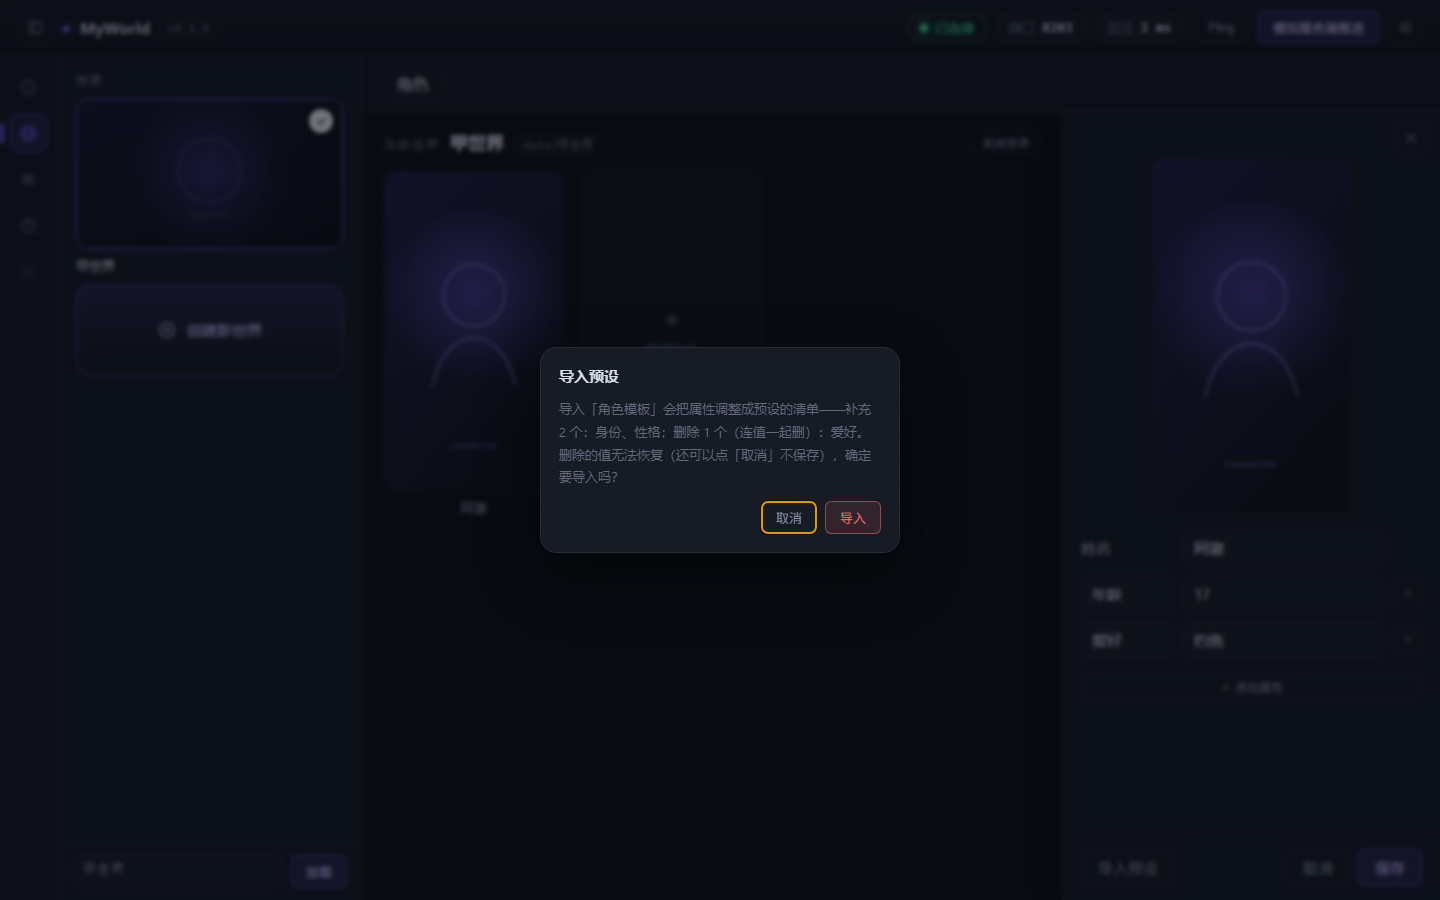
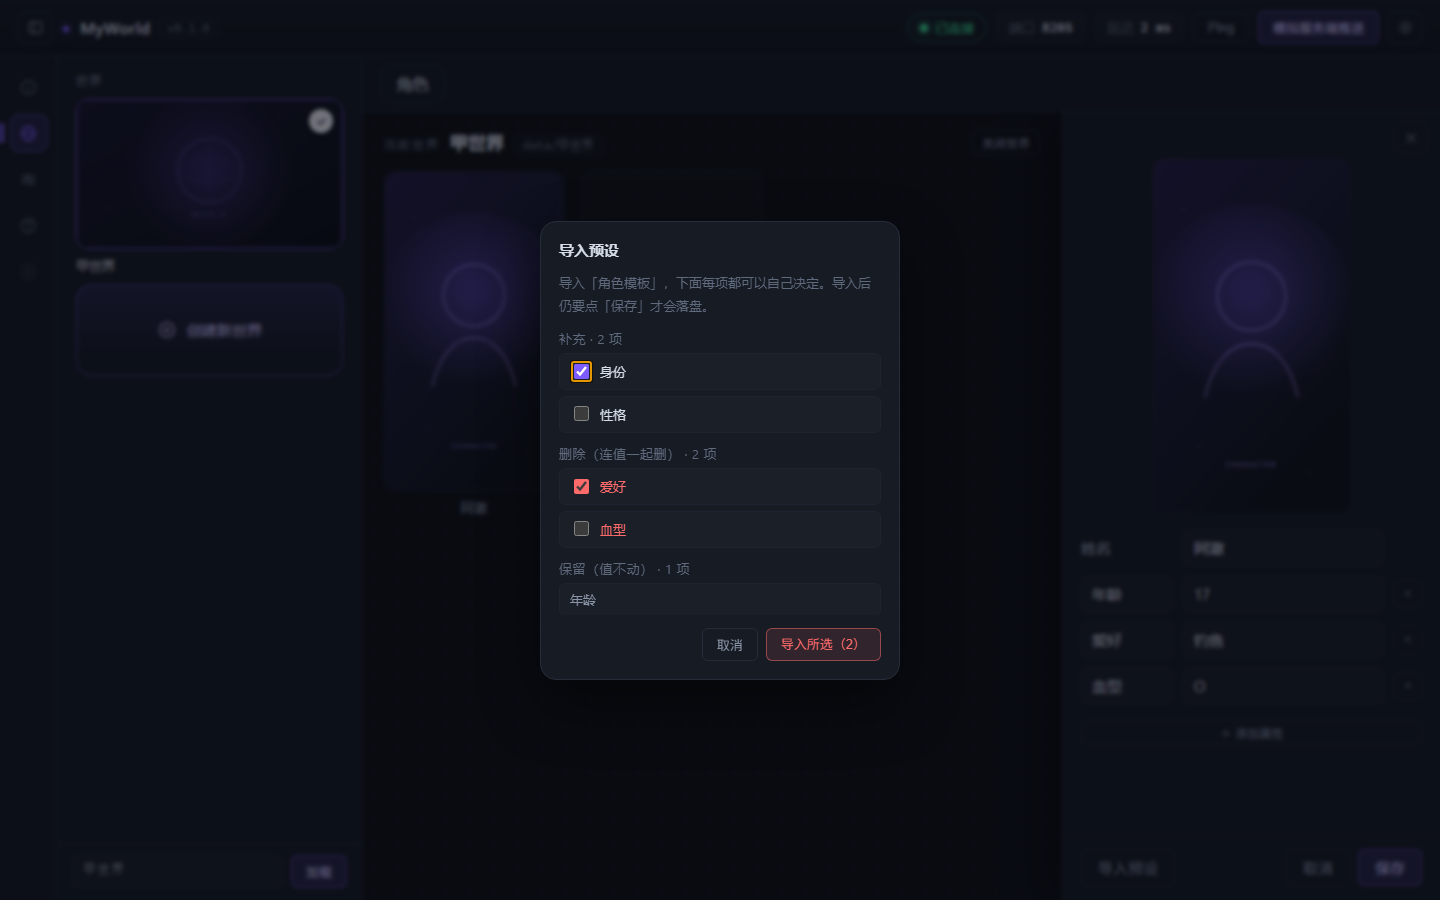
feat: 导入预设改为逐项勾选的清单
- 弹窗分三组：补充（预设有、角色没有）/ 删除（连值一起删）/ 保留（值不动）
- 补充和删除的每一项都是复选框，默认全勾，可以单独取消；保留项只做展示
- 按钮实时显示「导入所选（N）」，一项都不勾时禁用
- 导入只执行勾选的部分；仍要点「保存」才落盘
- 实测：取消勾选 性格/血型 后只补 身份、只删 爱好，血型=O 保留
- docs: 导入清单截图更新

Changed region(s): [[0.375, 0.3733, 0.625, 0.7467], [0.375, 0.2489, 0.5938, 0.3422], [0.75, 0.7467, 0.7812, 0.7778]]

diff --git a/web/js/app.js b/web/js/app.js
@@ -80,6 +80,7 @@
     btnPresetPickerCancel: $("btnPresetPickerCancel"),
     presetImportDialog: $("presetImportDialog"),
     presetImportText: $("presetImportText"),
+    presetImportList: $("presetImportList"),
     btnImportCancel: $("btnImportCancel"),
     btnImportConfirm: $("btnImportConfirm"),
     detailError: $("detailError"),
@@ -546,7 +547,7 @@
     currentDetailName = null;
   }
 
-  /* 面板「导入预设」：按预设的属性名清单调整角色——缺的补上、多余的连值一起删掉 */
+  /* 面板「导入预设」：列出要补/要删的每一项，用户逐项勾选 */
   let pendingImport = null;
 
   function planPresetImport(item) {
@@ -564,40 +565,109 @@
       .filter((entry) => entry.label);
 
     const keySet = new Set(keys);
-    const toAdd = keys.filter((key) => !entries.some((entry) => entry.label === key));
-    const toRemove = entries.filter((entry) => !keySet.has(entry.label));
+    const adds = keys
+      .filter((key) => !entries.some((entry) => entry.label === key))
+      .map((key) => ({ label: key, checked: true }));
+    const removes = entries
+      .filter((entry) => !keySet.has(entry.label))
+      .map((entry) => ({ label: entry.label, row: entry.row, checked: true }));
+    const keeps = entries.filter((entry) => keySet.has(entry.label)).map((entry) => entry.label);
 
-    if (!toAdd.length && !toRemove.length) {
+    if (!adds.length && !removes.length) {
       toast(`「${item.name}」和当前属性已经一致`);
       return;
     }
 
-    pendingImport = { item, toAdd, toRemove };
-    const parts = [];
-    if (toAdd.length) {
-      parts.push(`补充 ${toAdd.length} 个：${toAdd.join("、")}`);
-    }
-    if (toRemove.length) {
-      parts.push(`删除 ${toRemove.length} 个（连值一起删）：${toRemove.map((entry) => entry.label).join("、")}`);
-    }
+    pendingImport = { item, adds, removes, keeps };
     if (el.presetImportText) {
       el.presetImportText.textContent =
-        `导入「${item.name}」会把属性调整成预设的清单——${parts.join("；")}。` +
-        "删除的值无法恢复（还可以点「取消」不保存），确定要导入吗？";
+        `导入「${item.name}」，下面每项都可以自己决定。导入后仍要点「保存」才会落盘。`;
     }
+    renderImportPlan();
     el.presetImportDialog?.showModal();
+  }
+
+  function makeImportGroup(title, items, { danger = false, plain = false } = {}) {
+    const group = document.createElement("div");
+    group.className = "import-group";
+
+    const heading = document.createElement("span");
+    heading.className = "import-group-title";
+    heading.textContent = `${title} · ${items.length} 项`;
+    group.append(heading);
+
+    for (const item of items) {
+      const row = document.createElement(plain ? "span" : "label");
+      row.className = `import-item${danger ? " is-danger" : ""}${plain ? " is-keep" : ""}`;
+
+      if (!plain) {
+        const box = document.createElement("input");
+        box.type = "checkbox";
+        box.checked = item.checked;
+        box.addEventListener("change", () => {
+          item.checked = box.checked;
+          updateImportButton();
+        });
+        row.append(box);
+      }
+
+      const text = document.createElement("span");
+      text.textContent = item.label;
+      row.append(text);
+      group.append(row);
+    }
+
+    return group;
+  }
+
+  function renderImportPlan() {
+    if (!el.presetImportList || !pendingImport) return;
+    const { adds, removes, keeps } = pendingImport;
+    el.presetImportList.replaceChildren();
+
+    if (adds.length) el.presetImportList.append(makeImportGroup("补充", adds));
+    if (removes.length) {
+      el.presetImportList.append(makeImportGroup("删除（连值一起删）", removes, { danger: true }));
+    }
+    if (keeps.length) {
+      el.presetImportList.append(
+        makeImportGroup(
+          "保留（值不动）",
+          keeps.map((label) => ({ label })),
+          { plain: true },
+        ),
+      );
+    }
+    updateImportButton();
+  }
+
+  function updateImportButton() {
+    if (!el.btnImportConfirm) return;
+    if (!pendingImport) {
+      el.btnImportConfirm.textContent = "导入所选";
+      el.btnImportConfirm.disabled = false;
+      return;
+    }
+    const count =
+      pendingImport.adds.filter((entry) => entry.checked).length +
+      pendingImport.removes.filter((entry) => entry.checked).length;
+    el.btnImportConfirm.textContent = count ? `导入所选（${count}）` : "导入所选";
+    el.btnImportConfirm.disabled = count === 0;
   }
 
   function confirmPresetImport() {
     if (!pendingImport) return;
-    const { item, toAdd, toRemove } = pendingImport;
+    const { item, adds, removes } = pendingImport;
 
-    for (const entry of toRemove) entry.row.remove();
-    for (const key of toAdd) el.attrList.append(makeAttrRow({ label: key, value: "" }));
+    const pickedAdds = adds.filter((entry) => entry.checked);
+    const pickedRemoves = removes.filter((entry) => entry.checked);
 
-    if (el.detailError) el.detailError.hidden = true;
+    for (const entry of pickedRemoves) entry.row.remove();
+    for (const entry of pickedAdds) el.attrList.append(makeAttrRow({ label: entry.label, value: "" }));
+
     pendingImport = null;
-    toast(`已导入「${item.name}」：补充 ${toAdd.length} 个、删除 ${toRemove.length} 个`);
+    if (el.detailError) el.detailError.hidden = true;
+    toast(`已导入「${item.name}」：补充 ${pickedAdds.length} 个、删除 ${pickedRemoves.length} 个`);
   }
 
   async function openPresetPicker() {

diff --git a/web/css/style.css b/web/css/style.css
@@ -1565,6 +1565,59 @@ body {
   grid-template-columns: 1fr auto;
 }
 
+/* ---------- 导入预设：逐项勾选 ---------- */
+.import-groups {
+  display: flex;
+  flex-direction: column;
+  gap: 12px;
+  max-height: 46vh;
+  overflow-y: auto;
+}
+
+.import-group {
+  display: flex;
+  flex-direction: column;
+  gap: 6px;
+}
+
+.import-group-title {
+  color: var(--text-faint);
+  font-size: var(--fs-small);
+  letter-spacing: 0.5px;
+}
+
+.import-item {
+  display: flex;
+  align-items: center;
+  gap: 8px;
+  padding: 7px 10px;
+  border: 1px solid var(--border-soft);
+  border-radius: var(--radius-sm);
+  background: var(--chip-bg);
+  font-size: var(--fs-small);
+  cursor: pointer;
+}
+
+.import-item input[type="checkbox"] {
+  width: 15px;
+  height: 15px;
+  accent-color: var(--accent);
+  cursor: pointer;
+}
+
+.import-item.is-danger {
+  color: var(--error);
+}
+
+.import-item.is-danger input[type="checkbox"] {
+  accent-color: var(--error);
+}
+
+.import-item.is-keep {
+  color: var(--text-dim);
+  cursor: default;
+}
+
 /* ---------- 滚动条 ---------- */
 ::-webkit-scrollbar {
   width: 10px;

diff --git a/web/index.html b/web/index.html
@@ -334,14 +334,15 @@
     </div>
   </dialog>
 
-  <!-- 导入预设前的变更确认 -->
+  <!-- 导入预设前的变更清单（每项可勾选） -->
   <dialog class="dialog" id="presetImportDialog" aria-labelledby="presetImportTitle">
     <div class="dialog-form">
       <h3 class="dialog-title" id="presetImportTitle">导入预设</h3>
       <p class="hint" id="presetImportText"></p>
+      <div class="import-groups" id="presetImportList"></div>
       <div class="dialog-actions">
         <button class="btn ghost" type="button" id="btnImportCancel">取消</button>
-        <button class="btn danger" type="button" id="btnImportConfirm">导入</button>
+        <button class="btn danger" type="button" id="btnImportConfirm">导入所选</button>
       </div>
     </div>
   </dialog>

diff --git a/README.md b/README.md
@@ -200,7 +200,7 @@ data/山与海/
 - 其余属性行可以自由增删，**值允许重复**
 - 改完点「保存」写回 `character.json`
 - **点面板里的立绘可以换图**：选一张本地图片 → 9:16 裁剪 → 只做本地预览，点「保存」才真正上传；点「取消」或关掉面板就丢弃。上传后面板和卡片立绘同时更新（悬停立绘会显示「点击更换立绘」）
-- 面板底部 **「导入预设」**：弹窗里列出现有预设（带属性名条数），选一个会让当前属性**对齐预设的清单**——缺的补上、不在清单里的属性**连同值一起删掉**。执行前会弹窗列出「补充 N 个：…；删除 M 个：…」，确认后才动；删除只发生在界面上，不点「保存」就不会落盘
+- 面板底部 **「导入预设」**：弹窗里列出现有预设（带属性名条数），选一个会让当前属性**对齐预设的清单**——缺的补上、不在清单里的属性**连同值一起删掉**。执行前会列出「补充 / 删除 / 保留」三组清单，**每一项都能单独勾选**（默认全勾），按钮显示「导入所选（N）」；删除只发生在界面上，不点「保存」就不会落盘
 
 ![导入预设](docs/screenshot-preset-import.png)
 
